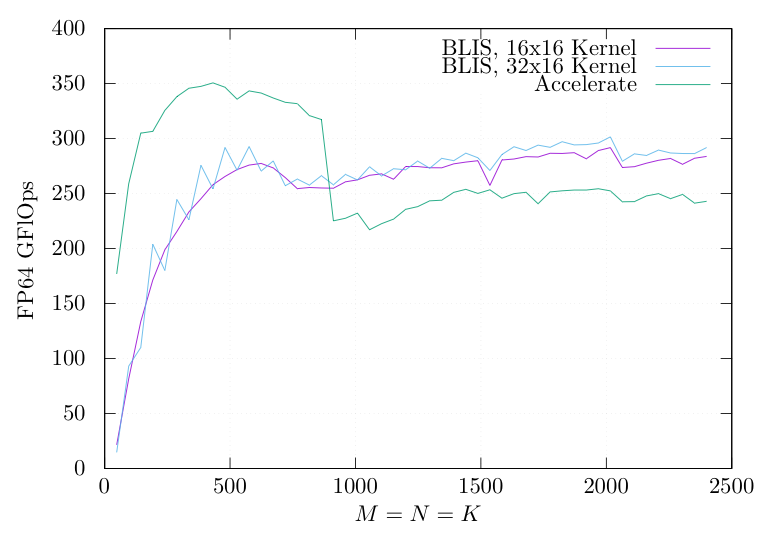
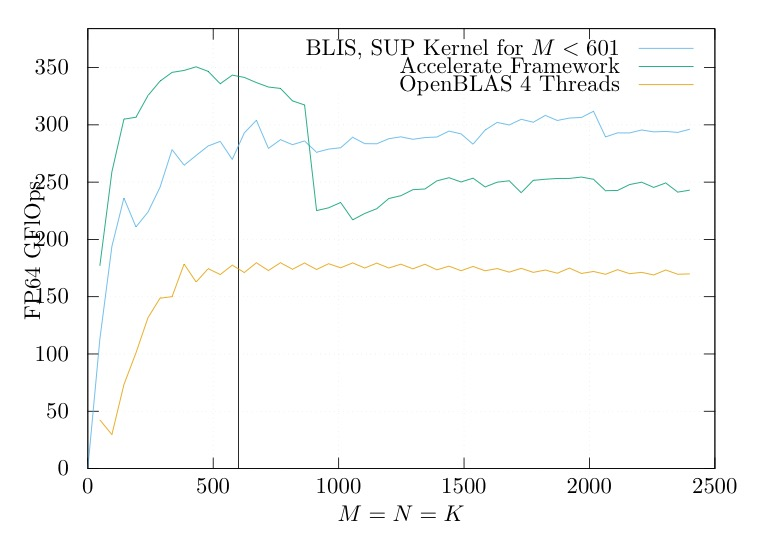
AMX Tune Block Size
Update Graph as well.
Perhaps let's upload sandbox results, too? :D

diff --git a/config/aaplmx/bli_cntx_init_aaplmx.c b/config/aaplmx/bli_cntx_init_aaplmx.c
@@ -130,8 +130,8 @@ void bli_cntx_init_aaplmx( cntx_t* cntx )
 	//                                           s      d      c      z
 	bli_blksz_init_easy( &blkszs[ BLIS_MR ],    32,    16,    -1,    -1 );
 	bli_blksz_init_easy( &blkszs[ BLIS_NR ],    32,    32,    -1,    -1 );
-	bli_blksz_init_easy( &blkszs[ BLIS_MC ],  1024,   640,    -1,    -1 );
-	bli_blksz_init_easy( &blkszs[ BLIS_KC ],  2016,  2016,    -1,    -1 );
+	bli_blksz_init_easy( &blkszs[ BLIS_MC ],   960,   480,    -1,    -1 );
+	bli_blksz_init_easy( &blkszs[ BLIS_KC ],   380,   380,    -1,    -1 );
 	bli_blksz_init_easy( &blkszs[ BLIS_NC ],  4096,  4096,    -1,    -1 );
 
 	// Update the context with the current architecture's register and cache

diff --git a/README.md b/README.md
@@ -9,4 +9,5 @@ Known issues:
 - TRSM might fail. Try commenting out function call to `bli_cntx_set_packm_kers` in `config/aaplmx/bli_cntx_init_aaplmx.c` if your need TRSM to work.
 - Performance is around 75% the hardware peak. This is worse than the Accelerate framework on small size matrices while better on large size one.
   ![](docs/graphs/aaplmx/output_st_dgemm_asm_blis.png)
+  ![](docs/graphs/aaplmx/output_1s_sgemm_asm_blis.png)
 
